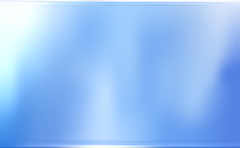
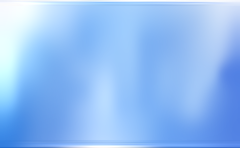
refit the bar on the final aurora and show the slab back face mirrored like glass

Changed region(s): [[0.1167, 0.2432, 0.2042, 0.4324]]

diff --git a/src/gl/slab.js b/src/gl/slab.js
@@ -103,12 +103,13 @@ const frag = /* glsl */ `
   uniform vec3 uVigColor;
   uniform float uBandGain;   // extra brightness of the softbox band on the face only
   uniform vec3 uFaceBand;    // explicit light band on the face: u centre, width, intensity
+  uniform float uFlipBack;   // 1: the back face reads the picture the right way round; 0: see-through glass (mirrored)
   void main() {
     vec3 nL = normalize(vNormalL);
     float front = smoothstep(0.55, 0.95, nL.z);
     float back = smoothstep(0.55, 0.95, -nL.z);
     vec2 uv = vUv;
-    if (back > 0.5) uv.x = 1.0 - uv.x;
+    if (back > 0.5 && uFlipBack > 0.5) uv.x = 1.0 - uv.x;
     vec3 pic = uHasMap > 0.5 ? texture2D(uMap, clamp(uv, 0.002, 0.998)).rgb : uTint;
     float luma = dot(pic, vec3(0.299, 0.587, 0.114));
     pic = vec3(luma) + (pic - vec3(luma)) * uSat;
@@ -163,6 +164,7 @@ function makeMaterial() {
       uVigColor: { value: new THREE.Color(0.05, 0.06, 0.12) },
       uBandGain: { value: 0 },
       uFaceBand: { value: new THREE.Vector3(0.5, 0.2, 0) },
+      uFlipBack: { value: 1 },
     },
   })
 }
@@ -243,7 +245,8 @@ function setupCamera(cam, cw, ch, P, ox, oy) {
 }
 
 // slab: { w, h, d, radius, map (url), tint, edgeColor, edgeMix, spec, bandPos, bandWidth, rim, brightness,
-//         sat, contrast, lift: [r,g,b], vignette, vigColor: [r,g,b], bandGain }  (the last six optional)
+//         sat, contrast, lift: [r,g,b], vignette, vigColor: [r,g,b], bandGain, faceBand, seeThrough }
+//         (the last eight optional; seeThrough shows the picture mirrored on the back face, like glass)
 // pose: { x, y, z, rx, ry, rz, s, sx, sy, opacity, band, brightness, faceBand: {u, w, a} } (px / radians)
 function applySlab(obj, slab, pose) {
   const { mesh, material: m } = obj
@@ -270,6 +273,7 @@ function applySlab(obj, slab, pose) {
   u.uVignette.value = slab.vignette ?? 0
   if (slab.vigColor) u.uVigColor.value.setRGB(...slab.vigColor)
   u.uBandGain.value = slab.bandGain ?? 0
+  u.uFlipBack.value = slab.seeThrough ? 0 : 1
   const fb = pose.faceBand ?? slab.faceBand
   if (fb) u.uFaceBand.value.set(fb.u ?? 0.5, fb.w ?? 0.2, fb.a ?? 0)
   else u.uFaceBand.value.set(0.5, 0.2, 0)

diff --git a/src/scenes/login/Selected.jsx b/src/scenes/login/Selected.jsx
@@ -40,6 +40,7 @@ export const slabMaterial = (id) => ({
   lift: [0.08, 0.05, 0.13],
   brightness: 0.95,
   vignette: 0.6,
+  seeThrough: true,
   vigColor: [0.14, 0.1, 0.2],
   ...OVERRIDE,
 })
